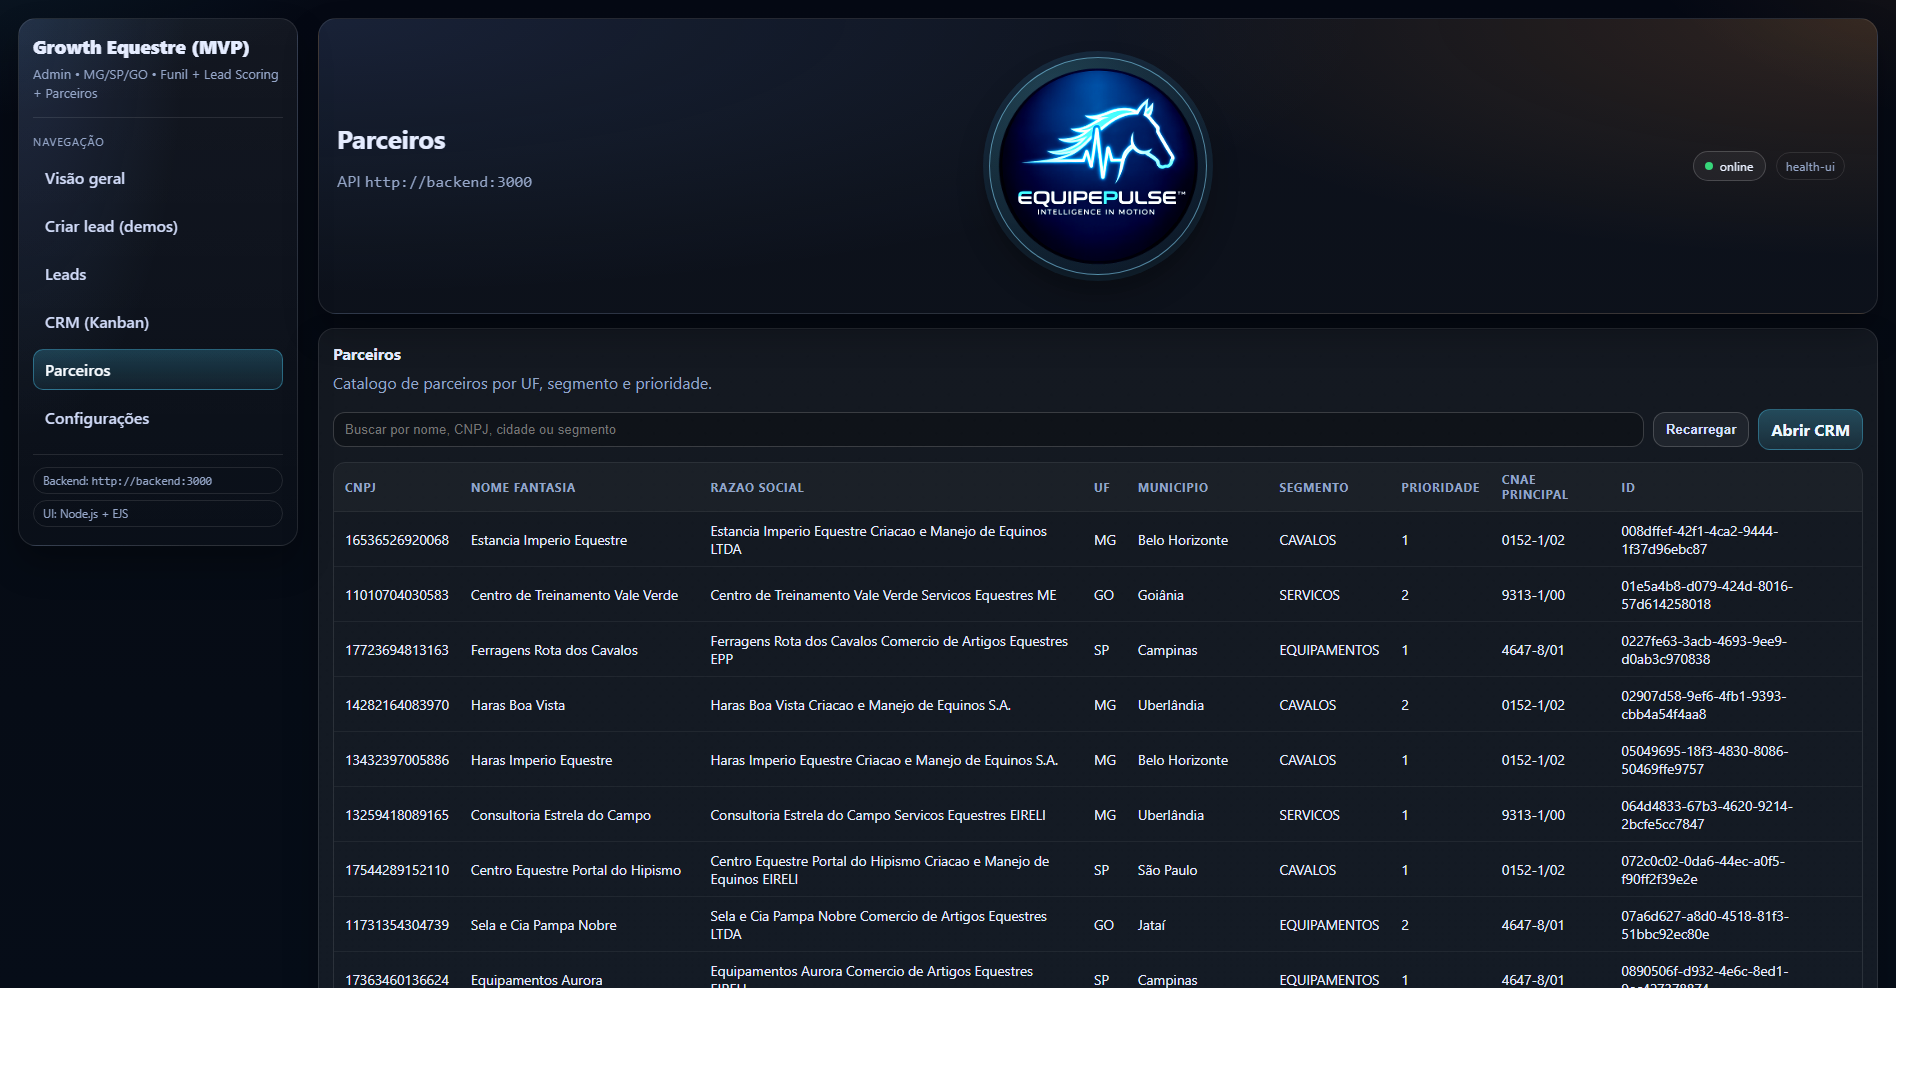
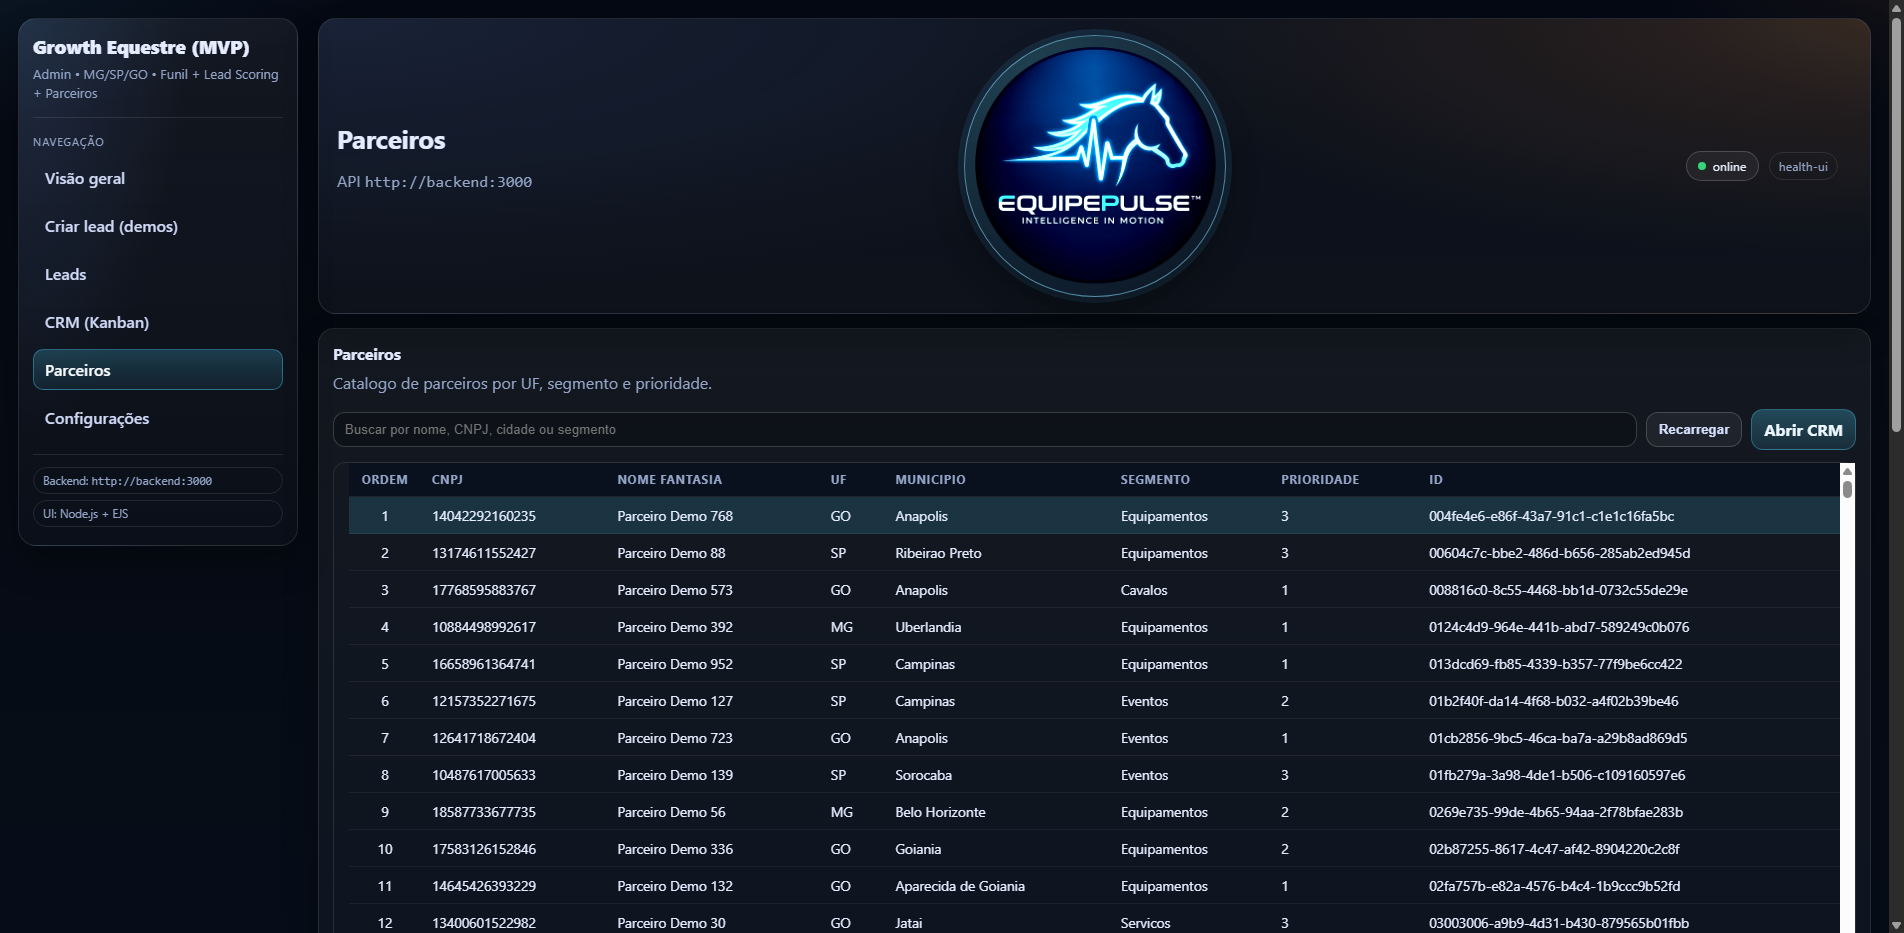
docs(readme): detalha rolagem de Leads e Parceiros

diff --git a/tools/docs/capture_ui_core_screens.py b/tools/docs/capture_ui_core_screens.py
@@ -4,7 +4,10 @@ Capture updated README screenshots for the main UI Node.js screens:
 - overview (dashboard)
 - create-lead-demos
 - leads
+- leads (scroll evidence)
 - kanban
+- partners
+- partners (scroll evidence)
 - settings
 - settings (training output)
 - create-lead (result and pitch scenario)
@@ -14,6 +17,7 @@ Usage (from repo root):
   python tools/docs/capture_ui_core_screens.py --ui-url http://127.0.0.1:3200 --start-server --capture-create-deep
   python tools/docs/capture_ui_core_screens.py --ui-url http://127.0.0.1:3200 --start-server --capture-retrain-result
   python tools/docs/capture_ui_core_screens.py --ui-url http://127.0.0.1:3100 --capture-overview-deep
+  python tools/docs/capture_ui_core_screens.py --ui-url http://127.0.0.1:3100 --only-leads-partners --capture-leads-deep --capture-partners-deep
 """
 
 from __future__ import annotations
@@ -44,7 +48,12 @@ PNG_CREATE = OUT_DIR / "ui-criar-lead-demos.png"
 PNG_CREATE_RESULT = OUT_DIR / "ui-criar-lead-demos-resultado.png"
 PNG_CREATE_PITCH = OUT_DIR / "ui-criar-lead-demos-roteiro.png"
 PNG_LEADS = OUT_DIR / "ui-leads.png"
+PNG_LEADS_SCROLL_1 = OUT_DIR / "ui-leads-rolagem-1.png"
+PNG_LEADS_SCROLL_2 = OUT_DIR / "ui-leads-rolagem-2.png"
 PNG_KANBAN = OUT_DIR / "ui-crm-kanban.png"
+PNG_PARTNERS = OUT_DIR / "ui-parceiros.png"
+PNG_PARTNERS_SCROLL_1 = OUT_DIR / "ui-parceiros-rolagem-1.png"
+PNG_PARTNERS_SCROLL_2 = OUT_DIR / "ui-parceiros-rolagem-2.png"
 PNG_SETTINGS = OUT_DIR / "ui-configuracoes.png"
 PNG_SETTINGS_RETRAIN = OUT_DIR / "ui-configuracoes-retreino-resultado.png"
 
@@ -169,6 +178,63 @@ def capture_overview_deep(driver: webdriver.Chrome, wait: WebDriverWait) -> None
         driver.set_window_size(original_size.get("width", 1920), original_size.get("height", 1080))
 
 
+def capture_leads_deep(driver: webdriver.Chrome, wait: WebDriverWait) -> None:
+    wait.until(ec.presence_of_element_located((By.CSS_SELECTOR, "#leadsTable tbody tr")))
+
+    # Evidence 1: internal vertical scroll in table window.
+    driver.execute_script(
+        """
+        const t = document.getElementById('leadsTable');
+        if (!t) return;
+        const maxScroll = Math.max(0, t.scrollHeight - t.clientHeight);
+        t.scrollTop = Math.floor(maxScroll * 0.6);
+        """
+    )
+    time.sleep(0.35)
+    capture_viewport_png(driver, PNG_LEADS_SCROLL_1)
+
+    # Evidence 2: lower section (details + actions) with selection.
+    selected = driver.execute_script(
+        """
+        const sel = document.getElementById('leadActionSelect');
+        if (!sel) return false;
+        const next = Array.from(sel.options || []).find((o) => o.value);
+        if (!next) return false;
+        sel.value = next.value;
+        sel.dispatchEvent(new Event('change', { bubbles: true }));
+        return true;
+        """
+    )
+    if selected:
+        wait.until(ec.presence_of_element_located((By.CSS_SELECTOR, "#leadDetailWrap table")))
+    action_anchor = driver.find_element(By.ID, "leadActionSelect")
+    driver.execute_script("arguments[0].scrollIntoView({block: 'start'});", action_anchor)
+    time.sleep(0.35)
+    capture_viewport_png(driver, PNG_LEADS_SCROLL_2)
+
+
+def capture_partners_deep(driver: webdriver.Chrome, wait: WebDriverWait) -> None:
+    wait.until(ec.presence_of_element_located((By.CSS_SELECTOR, "#partnersTable tbody tr[data-partner-id]")))
+
+    # Evidence 1: internal vertical scroll in table window.
+    driver.execute_script(
+        """
+        const t = document.getElementById('partnersTable');
+        if (!t) return;
+        const maxScroll = Math.max(0, t.scrollHeight - t.clientHeight);
+        t.scrollTop = Math.floor(maxScroll * 0.6);
+        """
+    )
+    time.sleep(0.35)
+    capture_viewport_png(driver, PNG_PARTNERS_SCROLL_1)
+
+    # Evidence 2: lower section (partner details block).
+    detail_anchor = driver.find_element(By.ID, "partnerDetailSelect")
+    driver.execute_script("arguments[0].scrollIntoView({block: 'start'});", detail_anchor)
+    time.sleep(0.35)
+    capture_viewport_png(driver, PNG_PARTNERS_SCROLL_2)
+
+
 def capture_create_lead_result_and_pitch(driver: webdriver.Chrome, wait: WebDriverWait) -> None:
     wait.until(ec.element_to_be_clickable((By.ID, "clQuickQualificado")))
 
@@ -237,7 +303,10 @@ def capture_assets(
     capture_retrain_result: bool = False,
     capture_create_deep: bool = False,
     capture_overview_deep_flag: bool = False,
+    capture_leads_deep_flag: bool = False,
+    capture_partners_deep_flag: bool = False,
     only_overview: bool = False,
+    only_leads_partners: bool = False,
 ) -> None:
     OUT_DIR.mkdir(parents=True, exist_ok=True)
 
@@ -252,20 +321,30 @@ def capture_assets(
     wait = WebDriverWait(driver, 25)
     base = ui_url.rstrip("/")
     try:
-        wait_page_ready(driver, wait, f"{base}/", "#kpiLeads")
-        capture_viewport_png(driver, PNG_OVERVIEW)
-        if capture_overview_deep_flag:
-            capture_overview_deep(driver, wait)
-        if only_overview:
+        if not only_leads_partners:
+            wait_page_ready(driver, wait, f"{base}/", "#kpiLeads")
+            capture_viewport_png(driver, PNG_OVERVIEW)
+            if capture_overview_deep_flag:
+                capture_overview_deep(driver, wait)
+            if only_overview:
+                return
+
+        wait_page_ready(driver, wait, f"{base}/leads", "#leadsTable")
+        capture_viewport_png(driver, PNG_LEADS)
+        if capture_leads_deep_flag:
+            capture_leads_deep(driver, wait)
+
+        wait_page_ready(driver, wait, f"{base}/partners", "#partnersTable")
+        capture_viewport_png(driver, PNG_PARTNERS)
+        if capture_partners_deep_flag:
+            capture_partners_deep(driver, wait)
+        if only_leads_partners:
             return
 
         wait_page_ready(driver, wait, f"{base}/create-lead-demos", "#createLeadDemoForm")
         capture_viewport_png(driver, PNG_CREATE)
         if capture_create_deep:
             capture_create_lead_result_and_pitch(driver, wait)
-
-        wait_page_ready(driver, wait, f"{base}/leads", "#leadsTable")
-        capture_viewport_png(driver, PNG_LEADS)
 
         wait_page_ready(driver, wait, f"{base}/kanban", "#kanbanRoot")
         open_first_kanban_lead_details(driver, wait)
@@ -303,11 +382,28 @@ def main() -> int:
         help="Captura evidencias adicionais da 8.2.1 (Visao geral) em rolagem.",
     )
     parser.add_argument(
+        "--capture-leads-deep",
+        action="store_true",
+        help="Captura evidencias adicionais da 8.2.3 (Leads) em rolagem.",
+    )
+    parser.add_argument(
+        "--capture-partners-deep",
+        action="store_true",
+        help="Captura evidencias adicionais da 8.2.5 (Parceiros) em rolagem.",
+    )
+    parser.add_argument(
         "--only-overview",
         action="store_true",
         help="Captura apenas a guia Visao geral e encerra.",
     )
+    parser.add_argument(
+        "--only-leads-partners",
+        action="store_true",
+        help="Captura apenas as guias Leads e Parceiros e encerra.",
+    )
     args = parser.parse_args()
+    if args.only_overview and args.only_leads_partners:
+        raise ValueError("Use apenas um modo: --only-overview OU --only-leads-partners.")
 
     ui_url = args.ui_url.rstrip("/")
     proc: subprocess.Popen[str] | None = None
@@ -325,19 +421,32 @@ def main() -> int:
             capture_retrain_result=args.capture_retrain_result,
             capture_create_deep=args.capture_create_deep,
             capture_overview_deep_flag=args.capture_overview_deep,
+            capture_leads_deep_flag=args.capture_leads_deep,
+            capture_partners_deep_flag=args.capture_partners_deep,
             only_overview=args.only_overview,
+            only_leads_partners=args.only_leads_partners,
         )
-        print(f"[ok] {PNG_OVERVIEW.relative_to(ROOT)}")
-        if args.capture_overview_deep:
-            print(f"[ok] {PNG_OVERVIEW_SCROLL_1.relative_to(ROOT)}")
-            print(f"[ok] {PNG_OVERVIEW_SCROLL_2.relative_to(ROOT)}")
-        if args.only_overview:
+        if not args.only_leads_partners:
+            print(f"[ok] {PNG_OVERVIEW.relative_to(ROOT)}")
+            if args.capture_overview_deep:
+                print(f"[ok] {PNG_OVERVIEW_SCROLL_1.relative_to(ROOT)}")
+                print(f"[ok] {PNG_OVERVIEW_SCROLL_2.relative_to(ROOT)}")
+            if args.only_overview:
+                return 0
+        print(f"[ok] {PNG_LEADS.relative_to(ROOT)}")
+        if args.capture_leads_deep:
+            print(f"[ok] {PNG_LEADS_SCROLL_1.relative_to(ROOT)}")
+            print(f"[ok] {PNG_LEADS_SCROLL_2.relative_to(ROOT)}")
+        print(f"[ok] {PNG_PARTNERS.relative_to(ROOT)}")
+        if args.capture_partners_deep:
+            print(f"[ok] {PNG_PARTNERS_SCROLL_1.relative_to(ROOT)}")
+            print(f"[ok] {PNG_PARTNERS_SCROLL_2.relative_to(ROOT)}")
+        if args.only_leads_partners:
             return 0
         print(f"[ok] {PNG_CREATE.relative_to(ROOT)}")
         if args.capture_create_deep:
             print(f"[ok] {PNG_CREATE_RESULT.relative_to(ROOT)}")
             print(f"[ok] {PNG_CREATE_PITCH.relative_to(ROOT)}")
-        print(f"[ok] {PNG_LEADS.relative_to(ROOT)}")
         print(f"[ok] {PNG_KANBAN.relative_to(ROOT)}")
         print(f"[ok] {PNG_SETTINGS.relative_to(ROOT)}")
         if args.capture_retrain_result:

diff --git a/README.md b/README.md
@@ -37,7 +37,9 @@
 - [8.2.2.1 Forma 1 - Atalhos Gerar CURIOSO/AQUECENDO/QUALIFICADO](#8221-forma-1--atalhos-gerar-curiosoaquecendoqualificado)
 - [8.2.2.2 Forma 2 - Preenchimento manual + checklist do funil](#8222-forma-2--preenchimento-manual--checklist-do-funil)
 - [8.2.2.3 Forma 3 - Roteiro de demo (pitch)](#8223-forma-3--roteiro-de-demo-pitch)
+- [8.2.3 Guia detalhado - Leads](#823-guia-detalhado-leads)
 - [8.2.4 Guia detalhado - CRM (Kanban)](#824-guia-detalhado-crm-kanban)
+- [8.2.5 Guia detalhado - Parceiros](#825-guia-detalhado-parceiros)
 - [8.2.6 Guia detalhado - Configurações](#826-guia-detalhado-configuracoes)
 - [9. Como a Solução Apoia a Tomada de Decisão](#9-como-a-solucao-apoia-a-tomada-de-decisao)
 - [10. Motor de Machine Learning (Dual Models)](#10-motor-de-machine-learning-dual-models)
@@ -399,12 +401,50 @@ Exemplo real do roteiro executado:
 - `Diagnóstico de ML`: transparência de motor, modelo e probabilidade.
 - Se houver mensagem de reaproveitamento de lead existente, a UI evitou duplicidade e atualizou score sem repetir eventos.
 
-#### 8.2.3 Leads (Node.js)
-Consulta rápida, filtros e ações de score, edição, exclusão e handoff.
-Inclui janela com 20 registros visíveis e barra de rolagem vertical para percorrer os demais registros sem perder o contexto da tela.
-Também inclui barra de ações posicionada acima da busca para operação rápida (recarregar, exportar CSV filtrado, exclusão em lote e atalho para CRM), com layout ajustado para não interferir na leitura dos detalhes.
+<a id="823-guia-detalhado-leads"></a>
 
-![Node.js - Leads](docs/readme_images/ui-leads.png)
+#### 8.2.3 Leads (Node.js) - guia detalhado com rolagem
+Esta guia concentra a operação tabular de leads e possui dois tipos de rolagem:
+1. **Rolagem interna da tabela** (janela com 20 linhas visíveis).
+2. **Rolagem vertical da página** para acessar o bloco de detalhes e ações.
+
+Visão inicial da guia:
+
+![Node.js - Leads (topo)](docs/readme_images/ui-leads.png)
+
+##### 8.2.3.1 O que cada área representa
+| Área | O que mostra | Como interpretar no dia a dia |
+|---|---|---|
+| Barra superior | `Recarregar`, `Baixar CSV (leads filtrados)`, `Ir para CRM (Kanban)`. | Controle rápido de atualização, exportação e navegação operacional. |
+| Faixa de controle | Total filtrado, confirmação de exclusão e total selecionado. | Evita exclusão acidental e mostra claramente o impacto da ação em lote. |
+| Busca | Filtro por nome, cidade, status e segmento. | Refina a fila de trabalho sem sair da tela. |
+| Tabela de leads | Lista operacional com score, status e motivos. | Base para priorização e decisão de próxima ação. |
+
+Evidência da rolagem interna da tabela (janela com sticky header):
+
+![Node.js - Leads (rolagem da tabela)](docs/readme_images/ui-leads-rolagem-1.png)
+
+##### 8.2.3.2 Como usar a rolagem da tabela
+- A tabela mantém cabeçalho fixo durante a rolagem.
+- O usuário percorre os registros sem perder os nomes das colunas.
+- A navegação é mais rápida em bases grandes (ex.: milhares de leads).
+
+Evidência da rolagem vertical da página até o bloco de ações:
+
+![Node.js - Leads (rolagem para ações)](docs/readme_images/ui-leads-rolagem-2.png)
+
+##### 8.2.3.3 Bloco inferior (detalhes e ações) e interpretação
+- `Selecionar lead para ações`: define o lead ativo para detalhamento e operação.
+- `Detalhes do lead`: visão legível para negócio, sem jargão técnico.
+- `Explicação do score`: motivos que contribuíram para a pontuação.
+- `Ações`: recalcular score, editar lead, excluir e executar handoff (`ENVIADO`).
+
+##### 8.2.3.4 Fluxo recomendado na guia Leads
+1. Filtre os leads pela busca.
+2. Percorra a tabela usando a rolagem interna.
+3. Selecione o lead no campo de ações.
+4. Leia detalhes e explicação do score.
+5. Execute a ação necessária (atualizar, editar, excluir ou handoff).
 
 <a id="824-guia-detalhado-crm-kanban"></a>
 
@@ -468,16 +508,48 @@ No relatório, o usuário final interpreta 6 blocos principais:
 5. **Matching e plano de ação**: parceiros aderentes e próximos passos por janela de tempo.
 6. **Riscos e governança**: alertas de operação e rastreabilidade das fontes.
 
-#### 8.2.5 Parceiros (Node.js)
-Busca, filtros e consistência de dados para matching e exportação CSV.
-Também inclui:
-- coluna **Ordem** à esquerda do CNPJ;
-- janela com 20 registros visíveis e rolagem vertical;
-- painel **Detalhes do parceiro** com os mesmos campos principais da UI Streamlit (informações principais, contato e endereço);
-- campo **Selecionar parceiro** com ordem no label e busca direta por número da ordem via botão **Procurar**;
-- botão **Limpar** para limpar simultaneamente **Selecionar parceiro** e **Procurar por ordem**.
+<a id="825-guia-detalhado-parceiros"></a>
 
-![Node.js - Parceiros](docs/readme_images/ui-parceiros.png)
+#### 8.2.5 Parceiros (Node.js) - guia detalhado com rolagem
+A guia de parceiros é o diretório operacional para matching e encaminhamento. Assim como Leads, ela usa:
+1. **Rolagem interna da tabela** (janela com 20 linhas).
+2. **Rolagem vertical da página** para acessar os detalhes completos do parceiro.
+
+Visão inicial da guia:
+
+![Node.js - Parceiros (topo)](docs/readme_images/ui-parceiros.png)
+
+##### 8.2.5.1 O que cada área representa
+| Área | O que mostra | Como interpretar no dia a dia |
+|---|---|---|
+| Barra superior | Busca por nome/CNPJ/cidade/segmento + `Recarregar` + `Abrir CRM`. | Entrada principal para localizar parceiros e navegar para operação CRM. |
+| Tabela de parceiros | Catálogo com coluna `Ordem`, identificação e dados-chave. | A coluna `Ordem` facilita referência rápida entre times. |
+| Nota de rolagem horizontal | Orienta quando há muitas colunas na tabela. | Garante leitura completa sem perda de informação. |
+
+Evidência da rolagem interna da tabela:
+
+![Node.js - Parceiros (rolagem da tabela)](docs/readme_images/ui-parceiros-rolagem-1.png)
+
+##### 8.2.5.2 Como usar a rolagem e a ordem
+- Use a barra vertical da tabela para navegar no catálogo sem perder o cabeçalho.
+- Use `Ordem` para localizar parceiro específico de forma rápida.
+- Em bases extensas, combine busca textual + ordem para reduzir tempo de operação.
+
+Evidência da rolagem vertical da página até os detalhes:
+
+![Node.js - Parceiros (rolagem para detalhes)](docs/readme_images/ui-parceiros-rolagem-2.png)
+
+##### 8.2.5.3 Bloco de detalhes e interpretação
+- `Selecionar parceiro`: lista consolidada com `ordem`, CNPJ, nome, cidade/UF, segmento e id curto.
+- `Procurar por ordem`: acesso direto ao parceiro pelo número da coluna `Ordem`.
+- `Limpar`: reseta simultaneamente seleção e busca por ordem.
+- `Informações principais`, `Contato` e `Endereço`: visão completa para decisão de encaminhamento comercial.
+
+##### 8.2.5.4 Fluxo recomendado na guia Parceiros
+1. Use a busca para reduzir o universo de parceiros.
+2. Navegue a tabela com rolagem interna e identifique a ordem desejada.
+3. Selecione o parceiro ou use `Procurar por ordem`.
+4. Valide contato/endereço e aderência antes de encaminhar o lead.
 
 <a id="826-guia-detalhado-configuracoes"></a>
 
@@ -762,7 +834,11 @@ Para atualizar os prints das guias principais da UI Node.js:
    ```powershell
    python tools/docs/capture_ui_core_screens.py --ui-url http://127.0.0.1:3200 --start-server --only-overview --capture-overview-deep
    ```
-6. Arquivos gerados/atualizados:
+6. (Opcional) Capturar as seções **8.2.3 Leads** e **8.2.5 Parceiros** com rolagem:
+   ```powershell
+   python tools/docs/capture_ui_core_screens.py --ui-url http://127.0.0.1:3200 --start-server --only-leads-partners --capture-leads-deep --capture-partners-deep
+   ```
+7. Arquivos gerados/atualizados:
    - `docs/readme_images/ui-visao-geral.png`
    - `docs/readme_images/ui-visao-geral-rolagem-1.png` (quando usado `--capture-overview-deep`)
    - `docs/readme_images/ui-visao-geral-rolagem-2.png` (quando usado `--capture-overview-deep`)
@@ -770,7 +846,12 @@ Para atualizar os prints das guias principais da UI Node.js:
    - `docs/readme_images/ui-criar-lead-demos-resultado.png` (quando usado `--capture-create-deep`)
    - `docs/readme_images/ui-criar-lead-demos-roteiro.png` (quando usado `--capture-create-deep`)
    - `docs/readme_images/ui-leads.png`
+   - `docs/readme_images/ui-leads-rolagem-1.png` (quando usado `--capture-leads-deep`)
+   - `docs/readme_images/ui-leads-rolagem-2.png` (quando usado `--capture-leads-deep`)
    - `docs/readme_images/ui-crm-kanban.png`
+   - `docs/readme_images/ui-parceiros.png`
+   - `docs/readme_images/ui-parceiros-rolagem-1.png` (quando usado `--capture-partners-deep`)
+   - `docs/readme_images/ui-parceiros-rolagem-2.png` (quando usado `--capture-partners-deep`)
    - `docs/readme_images/ui-configuracoes.png`
    - `docs/readme_images/ui-configuracoes-retreino-resultado.png` (quando usado `--capture-retrain-result`)
 
